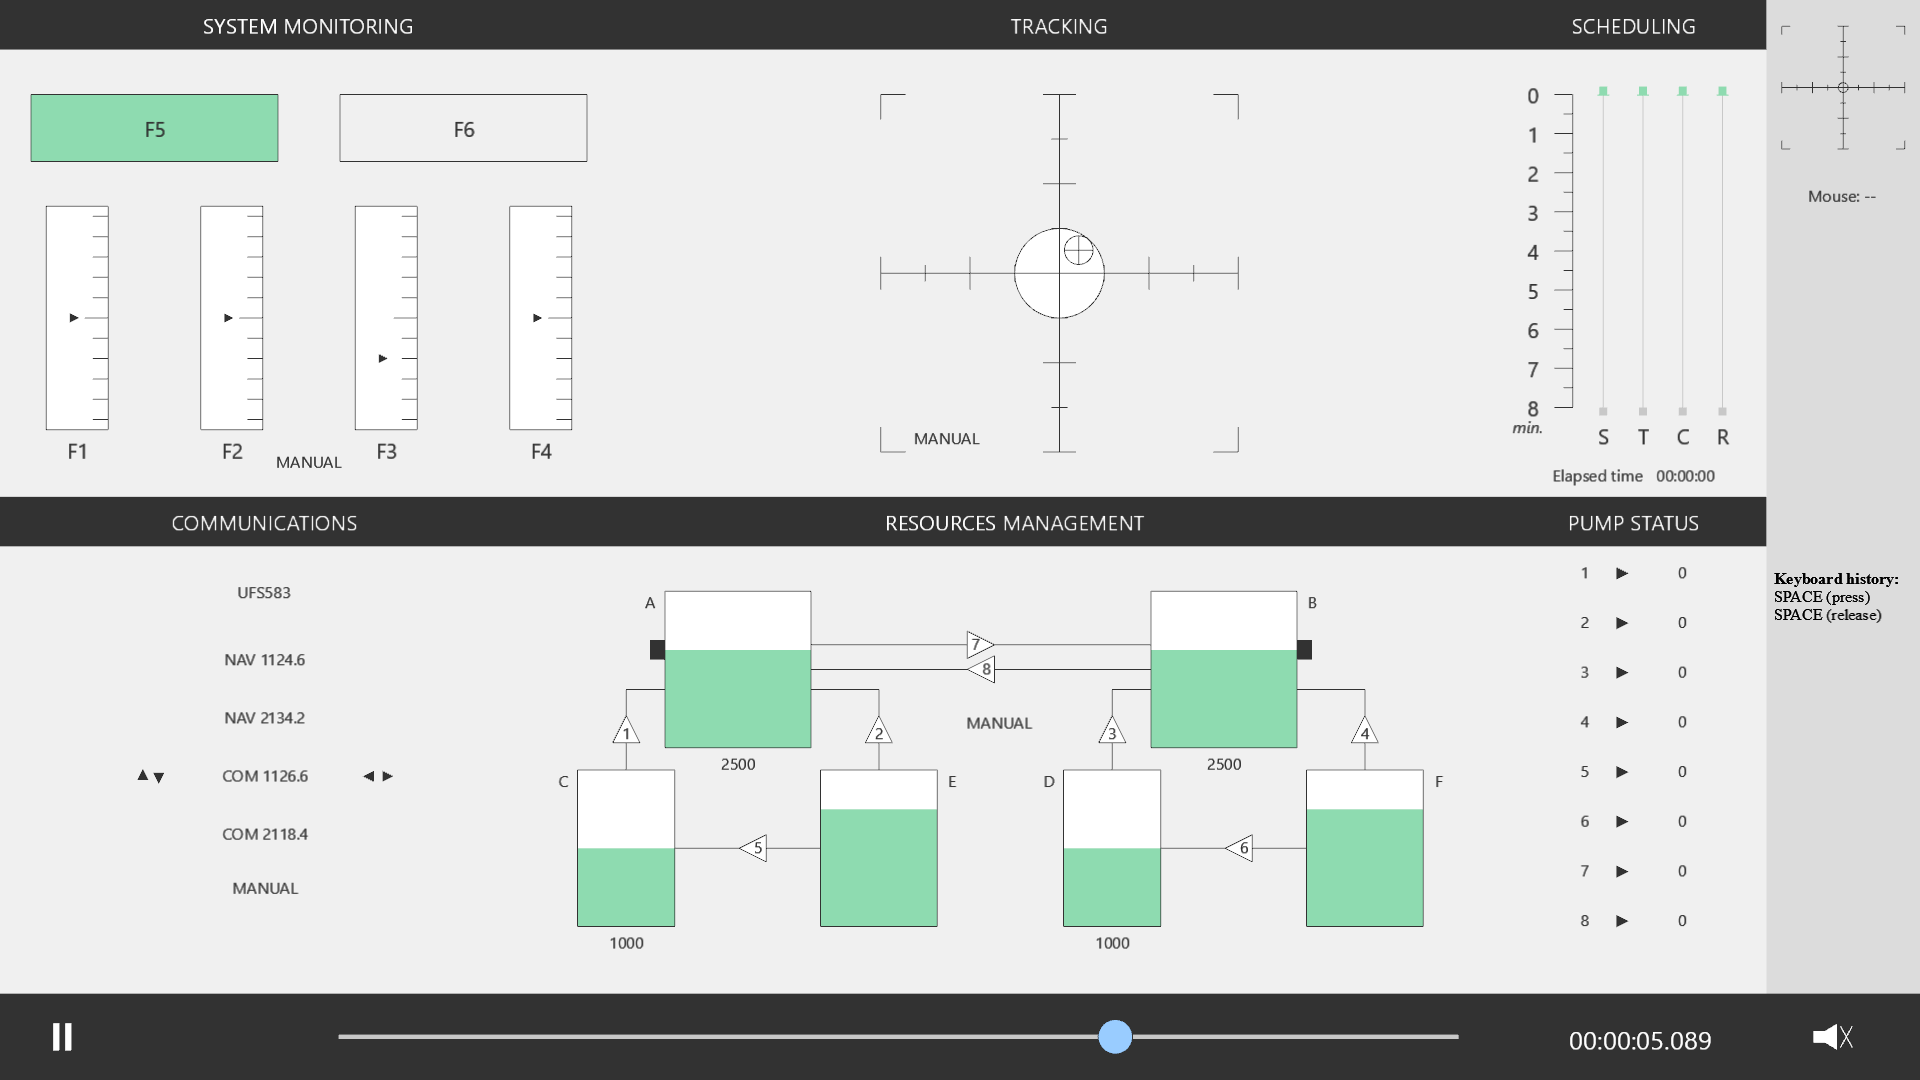
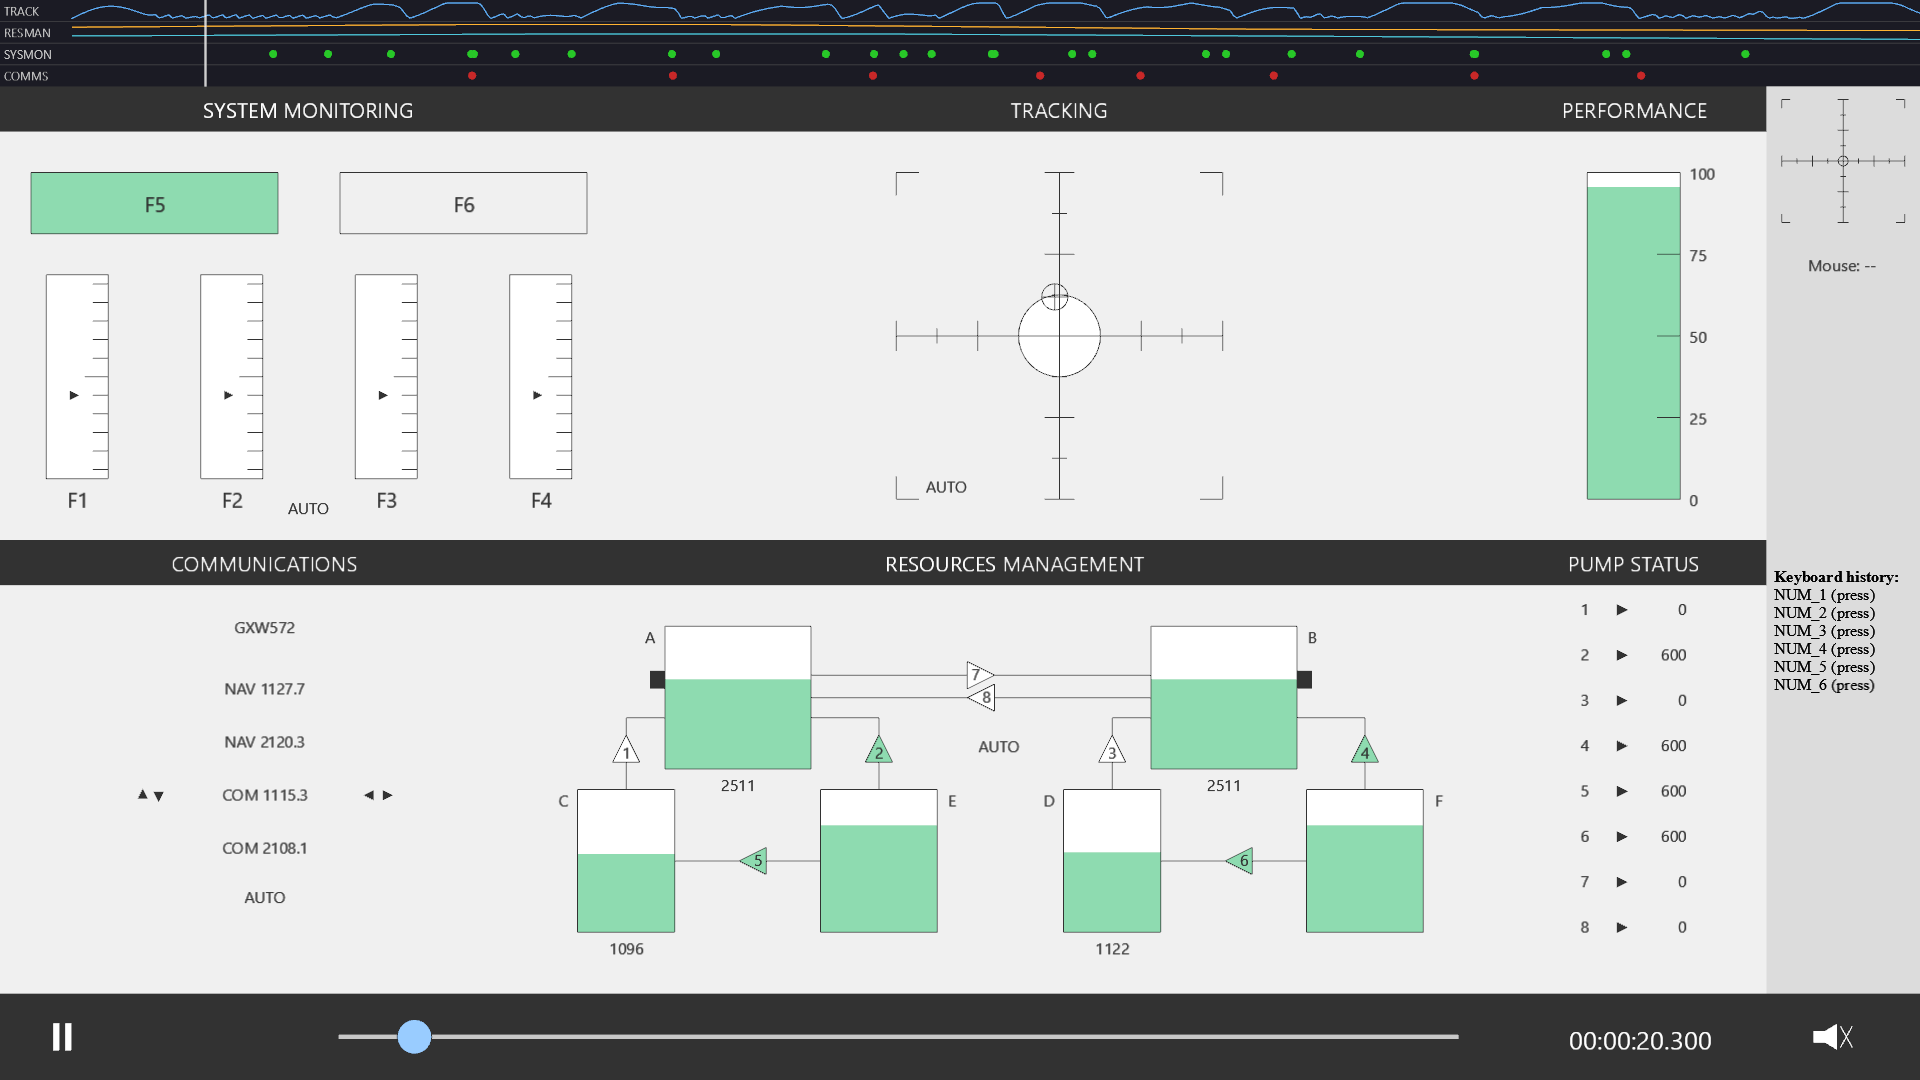
Website: new replay screenshot, "Scenario" tab, plain dash in the page title

diff --git a/website/index.html b/website/index.html
@@ -3,7 +3,7 @@
 <head>
 <meta charset="UTF-8">
 <meta name="viewport" content="width=device-width, initial-scale=1.0">
-<title>OpenMATB &mdash; Multi-Attribute Task Battery</title>
+<title>OpenMATB - Multi-Attribute Task Battery</title>
 <link rel="preconnect" href="https://fonts.googleapis.com">
 <link rel="preconnect" href="https://fonts.gstatic.com" crossorigin>
 <link href="https://fonts.googleapis.com/css2?family=Inter:wght@400;500;600;700&family=JetBrains+Mono:wght@400;500&display=swap" rel="stylesheet">
@@ -451,7 +451,7 @@ a.cite-link:hover { color: var(--blue-800); border-color: var(--blue-700); text-
 <button class="tab-btn" role="tab" aria-selected="false" aria-controls="tasks" id="tab-tasks">Tasks &amp; Agents</button>
 -->
       <button class="tab-btn" role="tab" aria-selected="false" aria-controls="tasks" id="tab-tasks">Tasks</button>
-      <button class="tab-btn" role="tab" aria-selected="false" aria-controls="build-scenario" id="tab-build-scenario">Build Scenario</button>
+      <button class="tab-btn" role="tab" aria-selected="false" aria-controls="build-scenario" id="tab-build-scenario">Scenario</button>
       <button class="tab-btn" role="tab" aria-selected="false" aria-controls="psychophysiology" id="tab-psychophysiology">Psychophysiology</button>
       <button class="tab-btn" role="tab" aria-selected="false" aria-controls="replay" id="tab-replay">Replay</button>
       <button class="tab-btn" role="tab" aria-selected="false" aria-controls="web" id="tab-web">Web Version</button>
